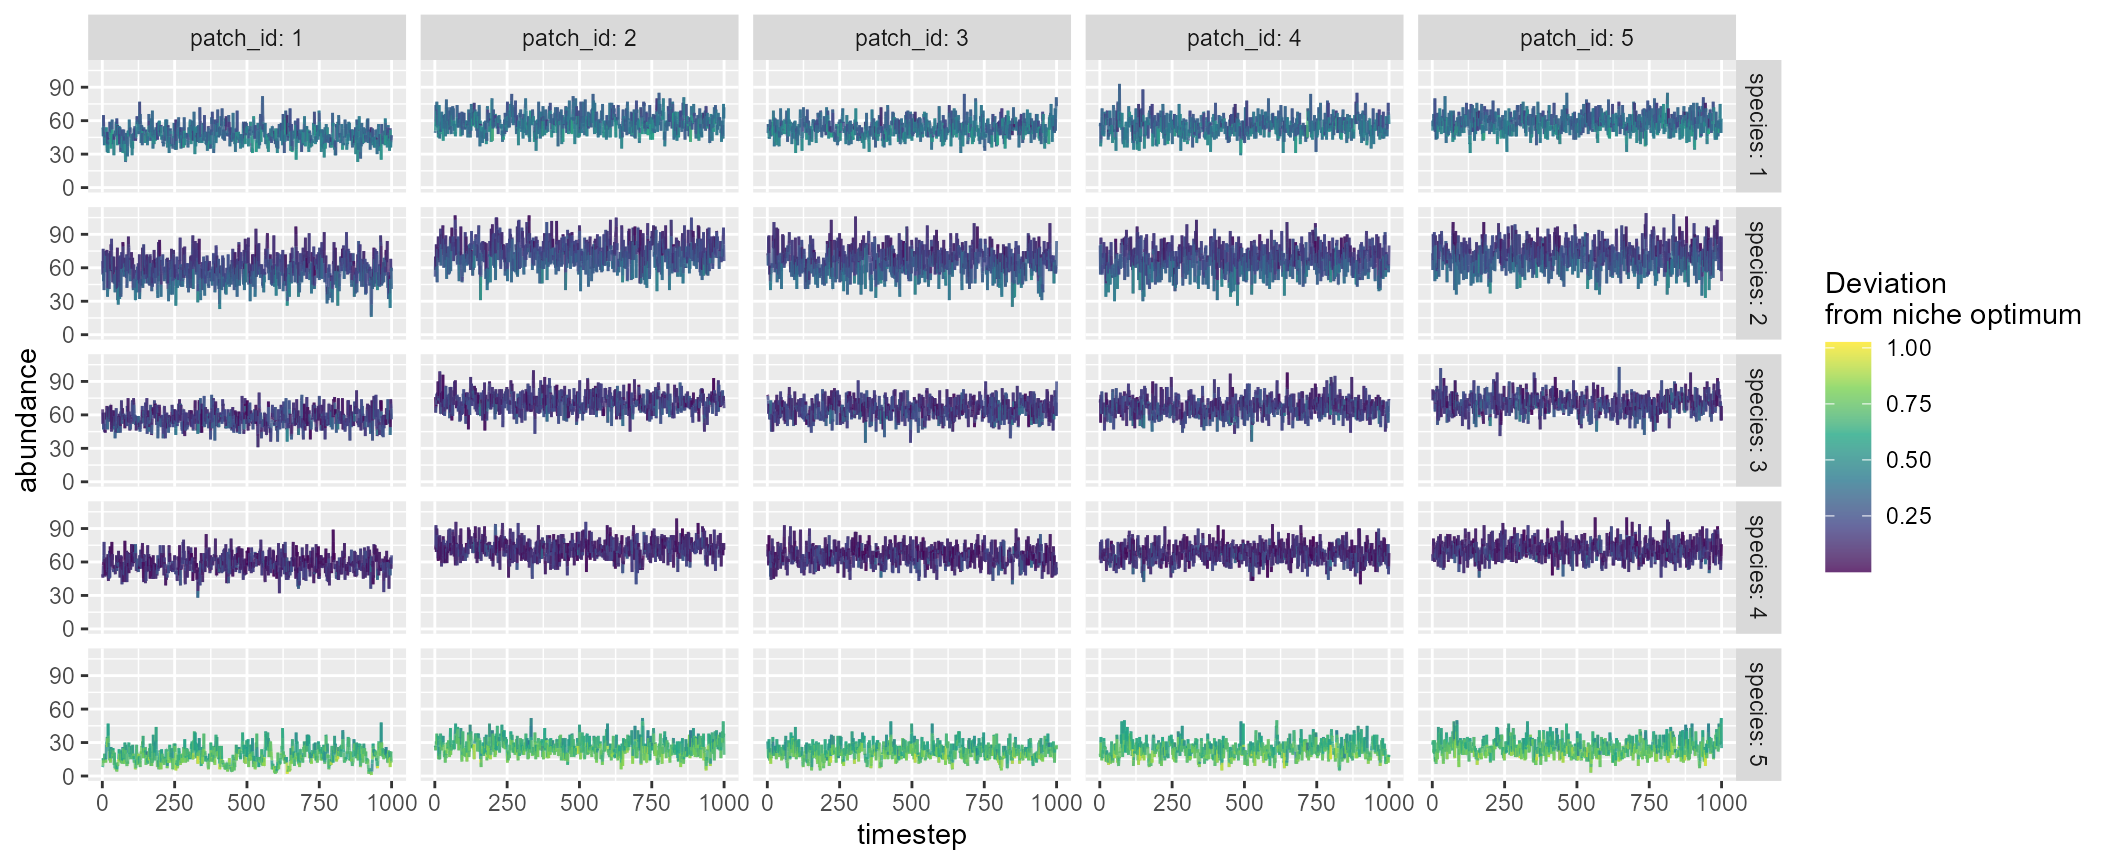
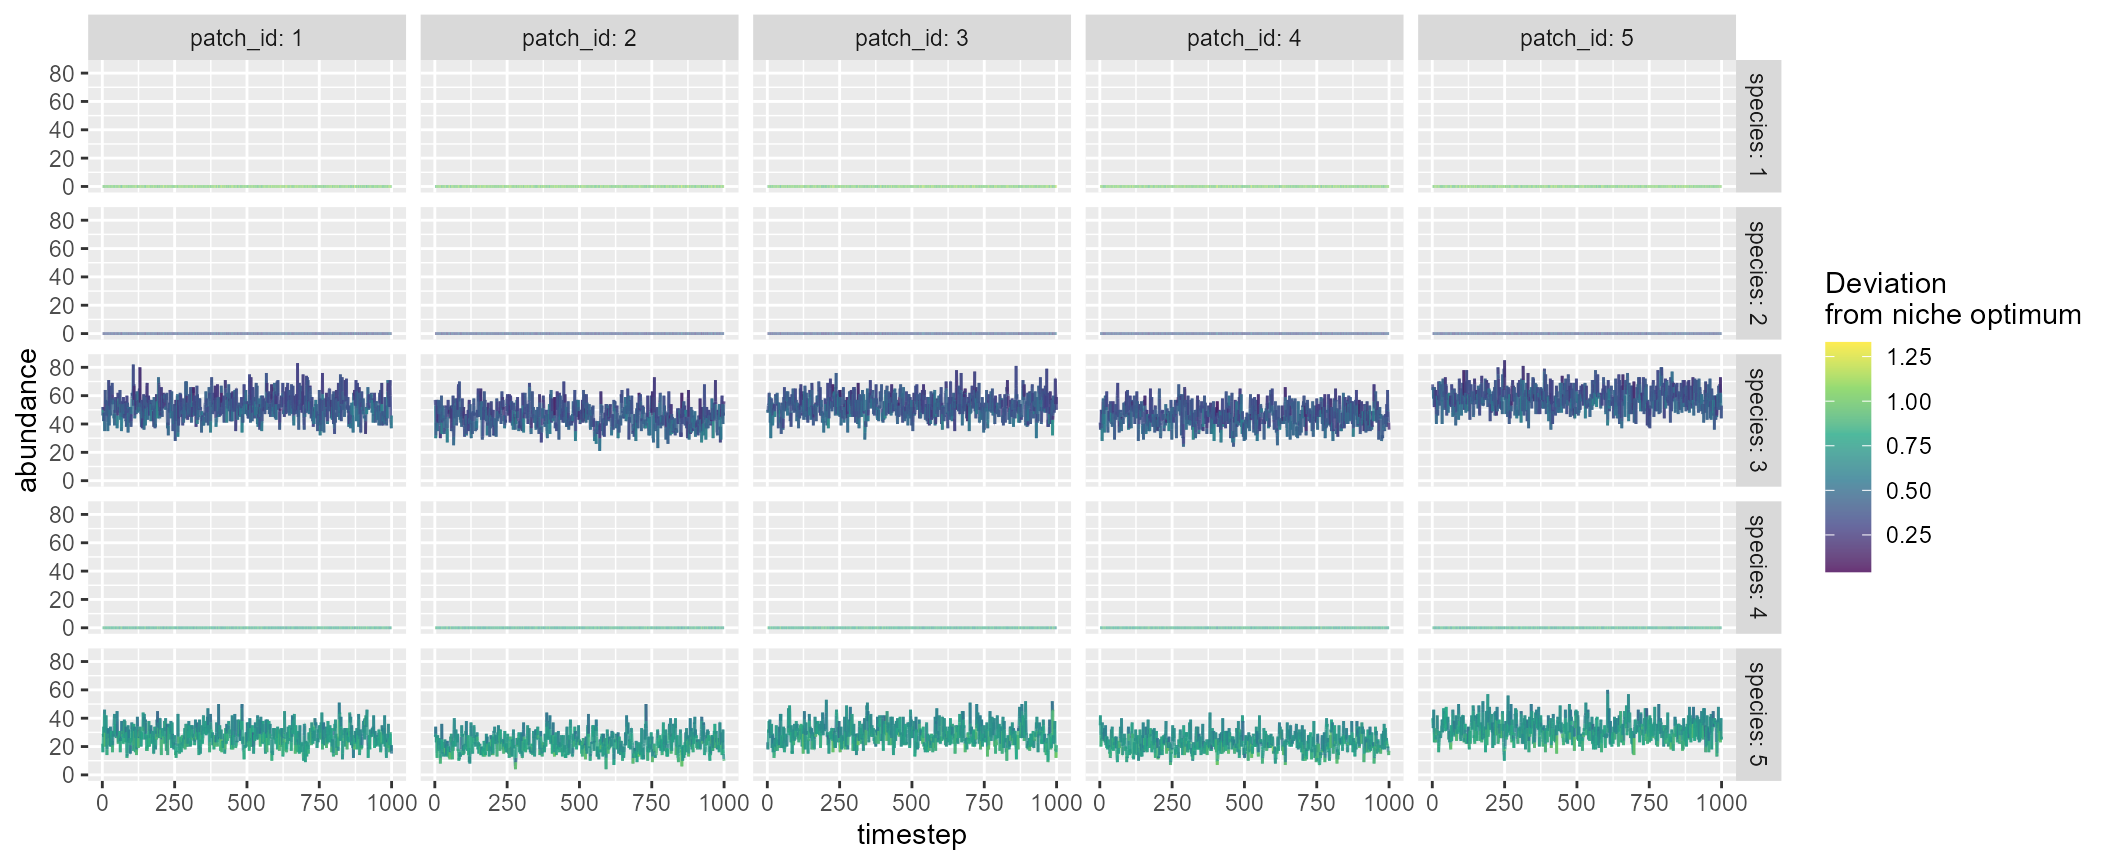
add

diff --git a/docs/articles/mcsim.html b/docs/articles/mcsim.html
@@ -204,63 +204,63 @@ species that are randomly chosen:</p>
 <code class="sourceCode R"><span class="va">mc</span>
 <span class="co">#&gt; $df_dynamics</span>
 <span class="co">#&gt; <span style="color: #949494;"># A tibble: 25,000 x 9</span></span>
-<span class="co">#&gt;    timestep patch_id mean_env       env carrying_capacity species niche_optim</span>
-<span class="co">#&gt;       <span style="color: #949494; font-style: italic;">&lt;dbl&gt;</span>    <span style="color: #949494; font-style: italic;">&lt;dbl&gt;</span>    <span style="color: #949494; font-style: italic;">&lt;dbl&gt;</span>     <span style="color: #949494; font-style: italic;">&lt;dbl&gt;</span>             <span style="color: #949494; font-style: italic;">&lt;dbl&gt;</span>   <span style="color: #949494; font-style: italic;">&lt;dbl&gt;</span>       <span style="color: #949494; font-style: italic;">&lt;dbl&gt;</span></span>
-<span class="co">#&gt; <span style="color: #BCBCBC;"> 1</span>        1        1        0 -<span style="color: #BB0000;">0.073</span><span style="color: #BB0000; text-decoration: underline;">1</span>                 100       1       0.362</span>
-<span class="co">#&gt; <span style="color: #BCBCBC;"> 2</span>        1        1        0 -<span style="color: #BB0000;">0.073</span><span style="color: #BB0000; text-decoration: underline;">1</span>                 100       2      -<span style="color: #BB0000;">0.234</span></span>
-<span class="co">#&gt; <span style="color: #BCBCBC;"> 3</span>        1        1        0 -<span style="color: #BB0000;">0.073</span><span style="color: #BB0000; text-decoration: underline;">1</span>                 100       3      -<span style="color: #BB0000;">0.175</span></span>
-<span class="co">#&gt; <span style="color: #BCBCBC;"> 4</span>        1        1        0 -<span style="color: #BB0000;">0.073</span><span style="color: #BB0000; text-decoration: underline;">1</span>                 100       4      -<span style="color: #BB0000;">0.113</span></span>
-<span class="co">#&gt; <span style="color: #BCBCBC;"> 5</span>        1        1        0 -<span style="color: #BB0000;">0.073</span><span style="color: #BB0000; text-decoration: underline;">1</span>                 100       5      -<span style="color: #BB0000;">0.683</span></span>
-<span class="co">#&gt; <span style="color: #BCBCBC;"> 6</span>        1        2        0  0.000<span style="text-decoration: underline;">567</span>               100       1       0.362</span>
-<span class="co">#&gt; <span style="color: #BCBCBC;"> 7</span>        1        2        0  0.000<span style="text-decoration: underline;">567</span>               100       2      -<span style="color: #BB0000;">0.234</span></span>
-<span class="co">#&gt; <span style="color: #BCBCBC;"> 8</span>        1        2        0  0.000<span style="text-decoration: underline;">567</span>               100       3      -<span style="color: #BB0000;">0.175</span></span>
-<span class="co">#&gt; <span style="color: #BCBCBC;"> 9</span>        1        2        0  0.000<span style="text-decoration: underline;">567</span>               100       4      -<span style="color: #BB0000;">0.113</span></span>
-<span class="co">#&gt; <span style="color: #BCBCBC;">10</span>        1        2        0  0.000<span style="text-decoration: underline;">567</span>               100       5      -<span style="color: #BB0000;">0.683</span></span>
+<span class="co">#&gt;    timestep patch_id mean_env     env carrying_capacity species niche_optim</span>
+<span class="co">#&gt;       <span style="color: #949494; font-style: italic;">&lt;dbl&gt;</span>    <span style="color: #949494; font-style: italic;">&lt;dbl&gt;</span>    <span style="color: #949494; font-style: italic;">&lt;dbl&gt;</span>   <span style="color: #949494; font-style: italic;">&lt;dbl&gt;</span>             <span style="color: #949494; font-style: italic;">&lt;dbl&gt;</span>   <span style="color: #949494; font-style: italic;">&lt;dbl&gt;</span>       <span style="color: #949494; font-style: italic;">&lt;dbl&gt;</span></span>
+<span class="co">#&gt; <span style="color: #BCBCBC;"> 1</span>        1        1        0 -<span style="color: #BB0000;">0.025</span><span style="color: #BB0000; text-decoration: underline;">6</span>               100       1      -<span style="color: #BB0000;">0.999</span></span>
+<span class="co">#&gt; <span style="color: #BCBCBC;"> 2</span>        1        1        0 -<span style="color: #BB0000;">0.025</span><span style="color: #BB0000; text-decoration: underline;">6</span>               100       2      -<span style="color: #BB0000;">0.380</span></span>
+<span class="co">#&gt; <span style="color: #BCBCBC;"> 3</span>        1        1        0 -<span style="color: #BB0000;">0.025</span><span style="color: #BB0000; text-decoration: underline;">6</span>               100       3       0.400</span>
+<span class="co">#&gt; <span style="color: #BCBCBC;"> 4</span>        1        1        0 -<span style="color: #BB0000;">0.025</span><span style="color: #BB0000; text-decoration: underline;">6</span>               100       4       0.810</span>
+<span class="co">#&gt; <span style="color: #BCBCBC;"> 5</span>        1        1        0 -<span style="color: #BB0000;">0.025</span><span style="color: #BB0000; text-decoration: underline;">6</span>               100       5      -<span style="color: #BB0000;">0.735</span></span>
+<span class="co">#&gt; <span style="color: #BCBCBC;"> 6</span>        1        2        0  0.073<span style="text-decoration: underline;">4</span>               100       1      -<span style="color: #BB0000;">0.999</span></span>
+<span class="co">#&gt; <span style="color: #BCBCBC;"> 7</span>        1        2        0  0.073<span style="text-decoration: underline;">4</span>               100       2      -<span style="color: #BB0000;">0.380</span></span>
+<span class="co">#&gt; <span style="color: #BCBCBC;"> 8</span>        1        2        0  0.073<span style="text-decoration: underline;">4</span>               100       3       0.400</span>
+<span class="co">#&gt; <span style="color: #BCBCBC;"> 9</span>        1        2        0  0.073<span style="text-decoration: underline;">4</span>               100       4       0.810</span>
+<span class="co">#&gt; <span style="color: #BCBCBC;">10</span>        1        2        0  0.073<span style="text-decoration: underline;">4</span>               100       5      -<span style="color: #BB0000;">0.735</span></span>
 <span class="co">#&gt; <span style="color: #949494;"># ... with 24,990 more rows, and 2 more variables: r_xt &lt;dbl&gt;, abundance &lt;dbl&gt;</span></span>
 <span class="co">#&gt; </span>
 <span class="co">#&gt; $df_species</span>
 <span class="co">#&gt; <span style="color: #949494;"># A tibble: 5 x 6</span></span>
 <span class="co">#&gt;   species mean_abundance    r0 niche_optim sd_niche_width p_dispersal</span>
 <span class="co">#&gt;     <span style="color: #949494; font-style: italic;">&lt;dbl&gt;</span>          <span style="color: #949494; font-style: italic;">&lt;dbl&gt;</span> <span style="color: #949494; font-style: italic;">&lt;dbl&gt;</span>       <span style="color: #949494; font-style: italic;">&lt;dbl&gt;</span>          <span style="color: #949494; font-style: italic;">&lt;dbl&gt;</span>       <span style="color: #949494; font-style: italic;">&lt;dbl&gt;</span></span>
-<span class="co">#&gt; <span style="color: #BCBCBC;">1</span>       1           54.4     4       0.362          0.768         0.1</span>
-<span class="co">#&gt; <span style="color: #BCBCBC;">2</span>       2           66.6     4      -<span style="color: #BB0000;">0.234</span>          0.390         0.1</span>
-<span class="co">#&gt; <span style="color: #BCBCBC;">3</span>       3           65.8     4      -<span style="color: #BB0000;">0.175</span>          0.705         0.1</span>
-<span class="co">#&gt; <span style="color: #BCBCBC;">4</span>       4           66.7     4      -<span style="color: #BB0000;">0.113</span>          0.723         0.1</span>
-<span class="co">#&gt; <span style="color: #BCBCBC;">5</span>       5           23.0     4      -<span style="color: #BB0000;">0.683</span>          0.598         0.1</span>
+<span class="co">#&gt; <span style="color: #BCBCBC;">1</span>       1            0       4      -<span style="color: #BB0000;">0.999</span>          0.591         0.1</span>
+<span class="co">#&gt; <span style="color: #BCBCBC;">2</span>       2            0       4      -<span style="color: #BB0000;">0.380</span>          0.145         0.1</span>
+<span class="co">#&gt; <span style="color: #BCBCBC;">3</span>       3           50.8     4       0.400          0.799         0.1</span>
+<span class="co">#&gt; <span style="color: #BCBCBC;">4</span>       4            0       4       0.810          0.442         0.1</span>
+<span class="co">#&gt; <span style="color: #BCBCBC;">5</span>       5           26.5     4      -<span style="color: #BB0000;">0.735</span>          0.725         0.1</span>
 <span class="co">#&gt; </span>
 <span class="co">#&gt; $df_patch</span>
 <span class="co">#&gt; <span style="color: #949494;"># A tibble: 5 x 5</span></span>
 <span class="co">#&gt;   patch_id alpha_div mean_env carrying_capacity disturbance</span>
 <span class="co">#&gt;      <span style="color: #949494; font-style: italic;">&lt;dbl&gt;</span>     <span style="color: #949494; font-style: italic;">&lt;dbl&gt;</span>    <span style="color: #949494; font-style: italic;">&lt;dbl&gt;</span>             <span style="color: #949494; font-style: italic;">&lt;dbl&gt;</span>       <span style="color: #949494; font-style: italic;">&lt;dbl&gt;</span></span>
-<span class="co">#&gt; <span style="color: #BCBCBC;">1</span>        1         5        0               100           0</span>
-<span class="co">#&gt; <span style="color: #BCBCBC;">2</span>        2         5        0               100           0</span>
-<span class="co">#&gt; <span style="color: #BCBCBC;">3</span>        3         5        0               100           0</span>
-<span class="co">#&gt; <span style="color: #BCBCBC;">4</span>        4         5        0               100           0</span>
-<span class="co">#&gt; <span style="color: #BCBCBC;">5</span>        5         5        0               100           0</span>
+<span class="co">#&gt; <span style="color: #BCBCBC;">1</span>        1         2        0               100           0</span>
+<span class="co">#&gt; <span style="color: #BCBCBC;">2</span>        2         2        0               100           0</span>
+<span class="co">#&gt; <span style="color: #BCBCBC;">3</span>        3         2        0               100           0</span>
+<span class="co">#&gt; <span style="color: #BCBCBC;">4</span>        4         2        0               100           0</span>
+<span class="co">#&gt; <span style="color: #BCBCBC;">5</span>        5         2        0               100           0</span>
 <span class="co">#&gt; </span>
 <span class="co">#&gt; $df_diversity</span>
 <span class="co">#&gt; <span style="color: #949494;"># A tibble: 1 x 3</span></span>
 <span class="co">#&gt;   alpha_div beta_div gamma_div</span>
 <span class="co">#&gt;       <span style="color: #949494; font-style: italic;">&lt;dbl&gt;</span>    <span style="color: #949494; font-style: italic;">&lt;dbl&gt;</span>     <span style="color: #949494; font-style: italic;">&lt;dbl&gt;</span></span>
-<span class="co">#&gt; <span style="color: #BCBCBC;">1</span>         5        1         5</span>
+<span class="co">#&gt; <span style="color: #BCBCBC;">1</span>         2        1         2</span>
 <span class="co">#&gt; </span>
 <span class="co">#&gt; $df_xy_coord</span>
 <span class="co">#&gt; <span style="color: #949494;"># A tibble: 5 x 2</span></span>
 <span class="co">#&gt;   x_coord y_coord</span>
 <span class="co">#&gt;     <span style="color: #949494; font-style: italic;">&lt;dbl&gt;</span>   <span style="color: #949494; font-style: italic;">&lt;dbl&gt;</span></span>
-<span class="co">#&gt; <span style="color: #BCBCBC;">1</span>   7.51     6.28</span>
-<span class="co">#&gt; <span style="color: #BCBCBC;">2</span>   4.07     2.88</span>
-<span class="co">#&gt; <span style="color: #BCBCBC;">3</span>   0.430    5.14</span>
-<span class="co">#&gt; <span style="color: #BCBCBC;">4</span>   2.26     5.56</span>
-<span class="co">#&gt; <span style="color: #BCBCBC;">5</span>   5.44     2.97</span>
+<span class="co">#&gt; <span style="color: #BCBCBC;">1</span>   1.69     4.14</span>
+<span class="co">#&gt; <span style="color: #BCBCBC;">2</span>   0.768    8.80</span>
+<span class="co">#&gt; <span style="color: #BCBCBC;">3</span>   5.13     1.57</span>
+<span class="co">#&gt; <span style="color: #BCBCBC;">4</span>   4.30     8.29</span>
+<span class="co">#&gt; <span style="color: #BCBCBC;">5</span>   3.38     2.62</span>
 <span class="co">#&gt; </span>
 <span class="co">#&gt; $distance_matrix</span>
 <span class="co">#&gt;          1        2        3        4        5</span>
-<span class="co">#&gt; 1 0.000000 4.832713 7.173053 5.302121 3.902400</span>
-<span class="co">#&gt; 2 4.832713 0.000000 4.285045 3.231296 1.372059</span>
-<span class="co">#&gt; 3 7.173053 4.285045 0.000000 1.876327 5.461523</span>
-<span class="co">#&gt; 4 5.302121 3.231296 1.876327 0.000000 4.101927</span>
-<span class="co">#&gt; 5 3.902400 1.372059 5.461523 4.101927 0.000000</span>
+<span class="co">#&gt; 1 0.000000 4.753230 4.295422 4.901601 2.268198</span>
+<span class="co">#&gt; 2 4.753230 0.000000 8.444370 3.567499 6.706830</span>
+<span class="co">#&gt; 3 4.295422 8.444370 0.000000 6.765663 2.047468</span>
+<span class="co">#&gt; 4 4.901601 3.567499 6.765663 0.000000 5.739518</span>
+<span class="co">#&gt; 5 2.268198 6.706830 2.047468 5.739518 0.000000</span>
 <span class="co">#&gt; </span>
 <span class="co">#&gt; $interaction_matrix</span>
 <span class="co">#&gt;      [,1] [,2] [,3] [,4] [,5]</span>
